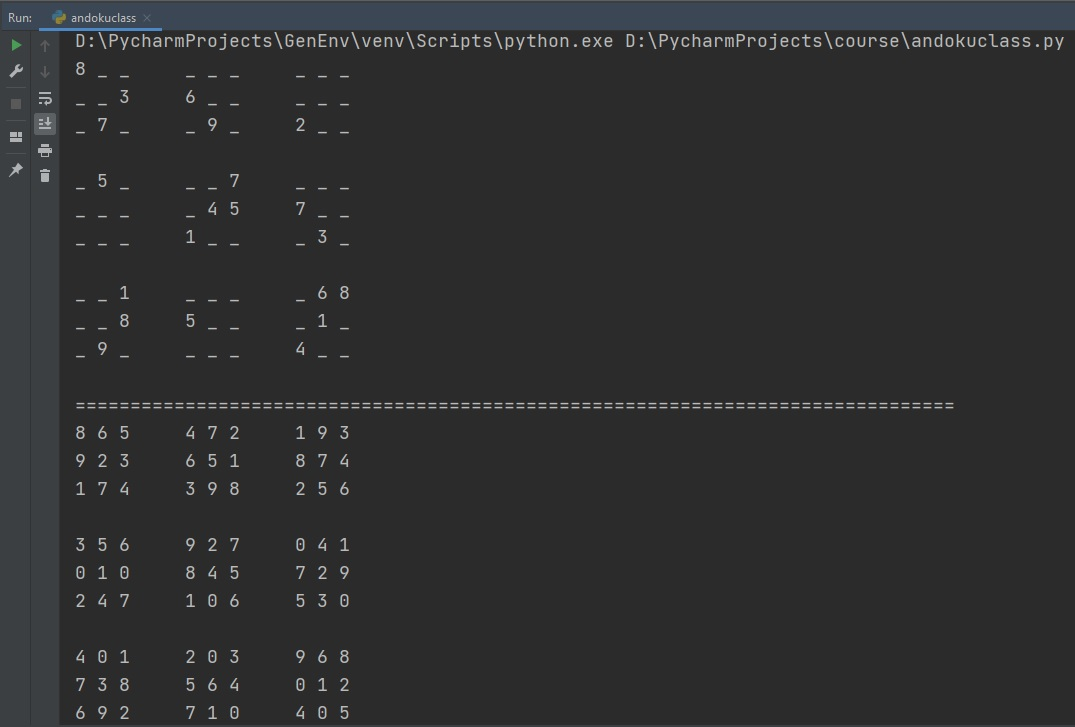
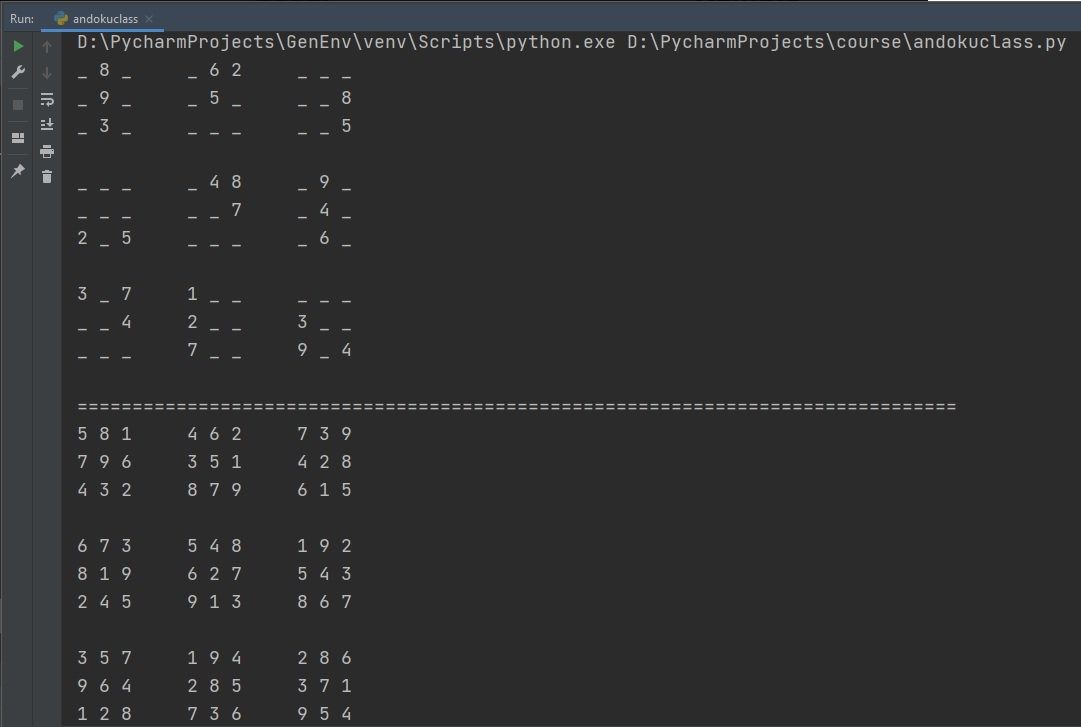
update1

diff --git a/andokuclass.py b/andokuclass.py
@@ -33,8 +33,8 @@ class AndokuClass:
         [72, 73, 74, 75, 76, 77, 78, 79, 80],
     ]
 
-    """initial value"""
 
+    """initial value"""
     def __init__(self, listsudoku):
         for _ in range(81):
             self.andukulist.append(Cellclass())
@@ -78,7 +78,7 @@ class AndokuClass:
     def rowlistnotsolved(self, index):
         blocks = self.rowlist(index)
         for block in blocks:
-            if self.andukulist[block].value == 0:
+            if self.andukulist[block].value != 0:
                 blocks.remove(block)
         return blocks
 
@@ -104,7 +104,7 @@ class AndokuClass:
     def collistnotsolved(self, index):
         blocks = self.collist(index)
         for block in blocks:
-            if self.andukulist[block].value == 0:
+            if self.andukulist[block].value != 0:
                 blocks.remove(block)
         return blocks
 
@@ -128,7 +128,7 @@ class AndokuClass:
     def boxlistnotsolved(self, index):
         blocks = self.boxlist(index)
         for block in blocks:
-            if self.andukulist[block].value == 0:
+            if self.andukulist[block].value != 0:
                 blocks.remove(block)
         return blocks
 
@@ -211,7 +211,6 @@ class AndokuClass:
         for checkvalue in range(1, 10):
             for index in range(81):
                 if self.andukulist[index].value == 0 and \
-                        self.andukulist[index].value != checkvalue and \
                         (not self.isfoundrow(index, checkvalue)) and \
                         (not self.isfoundcol(index, checkvalue)) and \
                         (not self.isfoundbox(index, checkvalue)):
@@ -348,7 +347,8 @@ class AndokuClass:
         sumprob = 0
         for index in range(81):
             for prob in range(9):
-                sumprob += self.andukulist[index].prob[prob]
+                if self.andukulist[index].value == 0:
+                    sumprob += 1
         if sumprob == 0:
             print("solved")
             # grinning face
@@ -421,17 +421,17 @@ if __name__ == "__main__":
     #               0, 0, 0, 0, 0, 0, 4, 7, 5,
     #               0, 8, 0, 0, 5, 1, 0, 0, 0]
     """testcase two (solved :) )"""
-    # listsudoku = [0, 8, 0, 0, 6, 2, 0, 0, 0,
-    #               0, 9, 0, 0, 5, 0, 0, 0, 8,
-    #               0, 3, 0, 0, 0, 0, 0, 0, 5,
-    #               0, 0, 0, 0, 4, 8, 0, 9, 0,
-    #               0, 0, 0, 0, 0, 7, 0, 4, 0,
-    #               2, 0, 5, 0, 0, 0, 0, 6, 0,
-    #               3, 0, 7, 1, 0, 0, 0, 0, 0,
-    #               0, 0, 4, 2, 0, 0, 3, 0, 0,
-    #               0, 0, 0, 7, 0, 0, 9, 0, 4]
+    listsudoku = [0, 8, 0, 0, 6, 2, 0, 0, 0,
+                  0, 9, 0, 0, 5, 0, 0, 0, 8,
+                  0, 3, 0, 0, 0, 0, 0, 0, 5,
+                  0, 0, 0, 0, 4, 8, 0, 9, 0,
+                  0, 0, 0, 0, 0, 7, 0, 4, 0,
+                  2, 0, 5, 0, 0, 0, 0, 6, 0,
+                  3, 0, 7, 1, 0, 0, 0, 0, 0,
+                  0, 0, 4, 2, 0, 0, 3, 0, 0,
+                  0, 0, 0, 7, 0, 0, 9, 0, 4]
 
-    """testcase three (solved :) )"""
+    """testcase three (solved :( )"""
     # listsudoku = [2, 7, 0, 0, 6, 0, 0, 5, 0,
     #               3, 0, 0, 8, 0, 0, 0, 1, 0,
     #               8, 0, 0, 5, 0, 0, 0, 7, 0,
@@ -442,16 +442,16 @@ if __name__ == "__main__":
     #               0, 0, 0, 0, 0, 5, 7, 0, 6,
     #               0, 0, 1, 0, 0, 4, 9, 0, 5]
 
-    """testcase four (solved :) )"""
-    listsudoku = [8, 0, 0, 0, 0, 0, 0, 0, 0,
-                  0, 0, 3, 6, 0, 0, 0, 0, 0,
-                  0, 7, 0, 0, 9, 0, 2, 0, 0,
-                  0, 5, 0, 0, 0, 7, 0, 0, 0,
-                  0, 0, 0, 0, 4, 5, 7, 0, 0,
-                  0, 0, 0, 1, 0, 0, 0, 3, 0,
-                  0, 0, 1, 0, 0, 0, 0, 6, 8,
-                  0, 0, 8, 5, 0, 0, 0, 1, 0,
-                  0, 9, 0, 0, 0, 0, 4, 0, 0]
+    """testcase four (not solved :( )"""
+    # listsudoku = [8, 0, 0, 0, 0, 0, 0, 0, 0,
+    #               0, 0, 3, 6, 0, 0, 0, 0, 0,
+    #               0, 7, 0, 0, 9, 0, 2, 0, 0,
+    #               0, 5, 0, 0, 0, 7, 0, 0, 0,
+    #               0, 0, 0, 0, 4, 5, 7, 0, 0,
+    #               0, 0, 0, 1, 0, 0, 0, 3, 0,
+    #               0, 0, 1, 0, 0, 0, 0, 6, 8,
+    #               0, 0, 8, 5, 0, 0, 0, 1, 0,
+    #               0, 9, 0, 0, 0, 0, 4, 0, 0]
 
     """In 2012, Finnish mathematician Arto Inkala claimed to have created the 
         "World's Hardest Sudoku". According to the British newspaper The Telegraph, 
